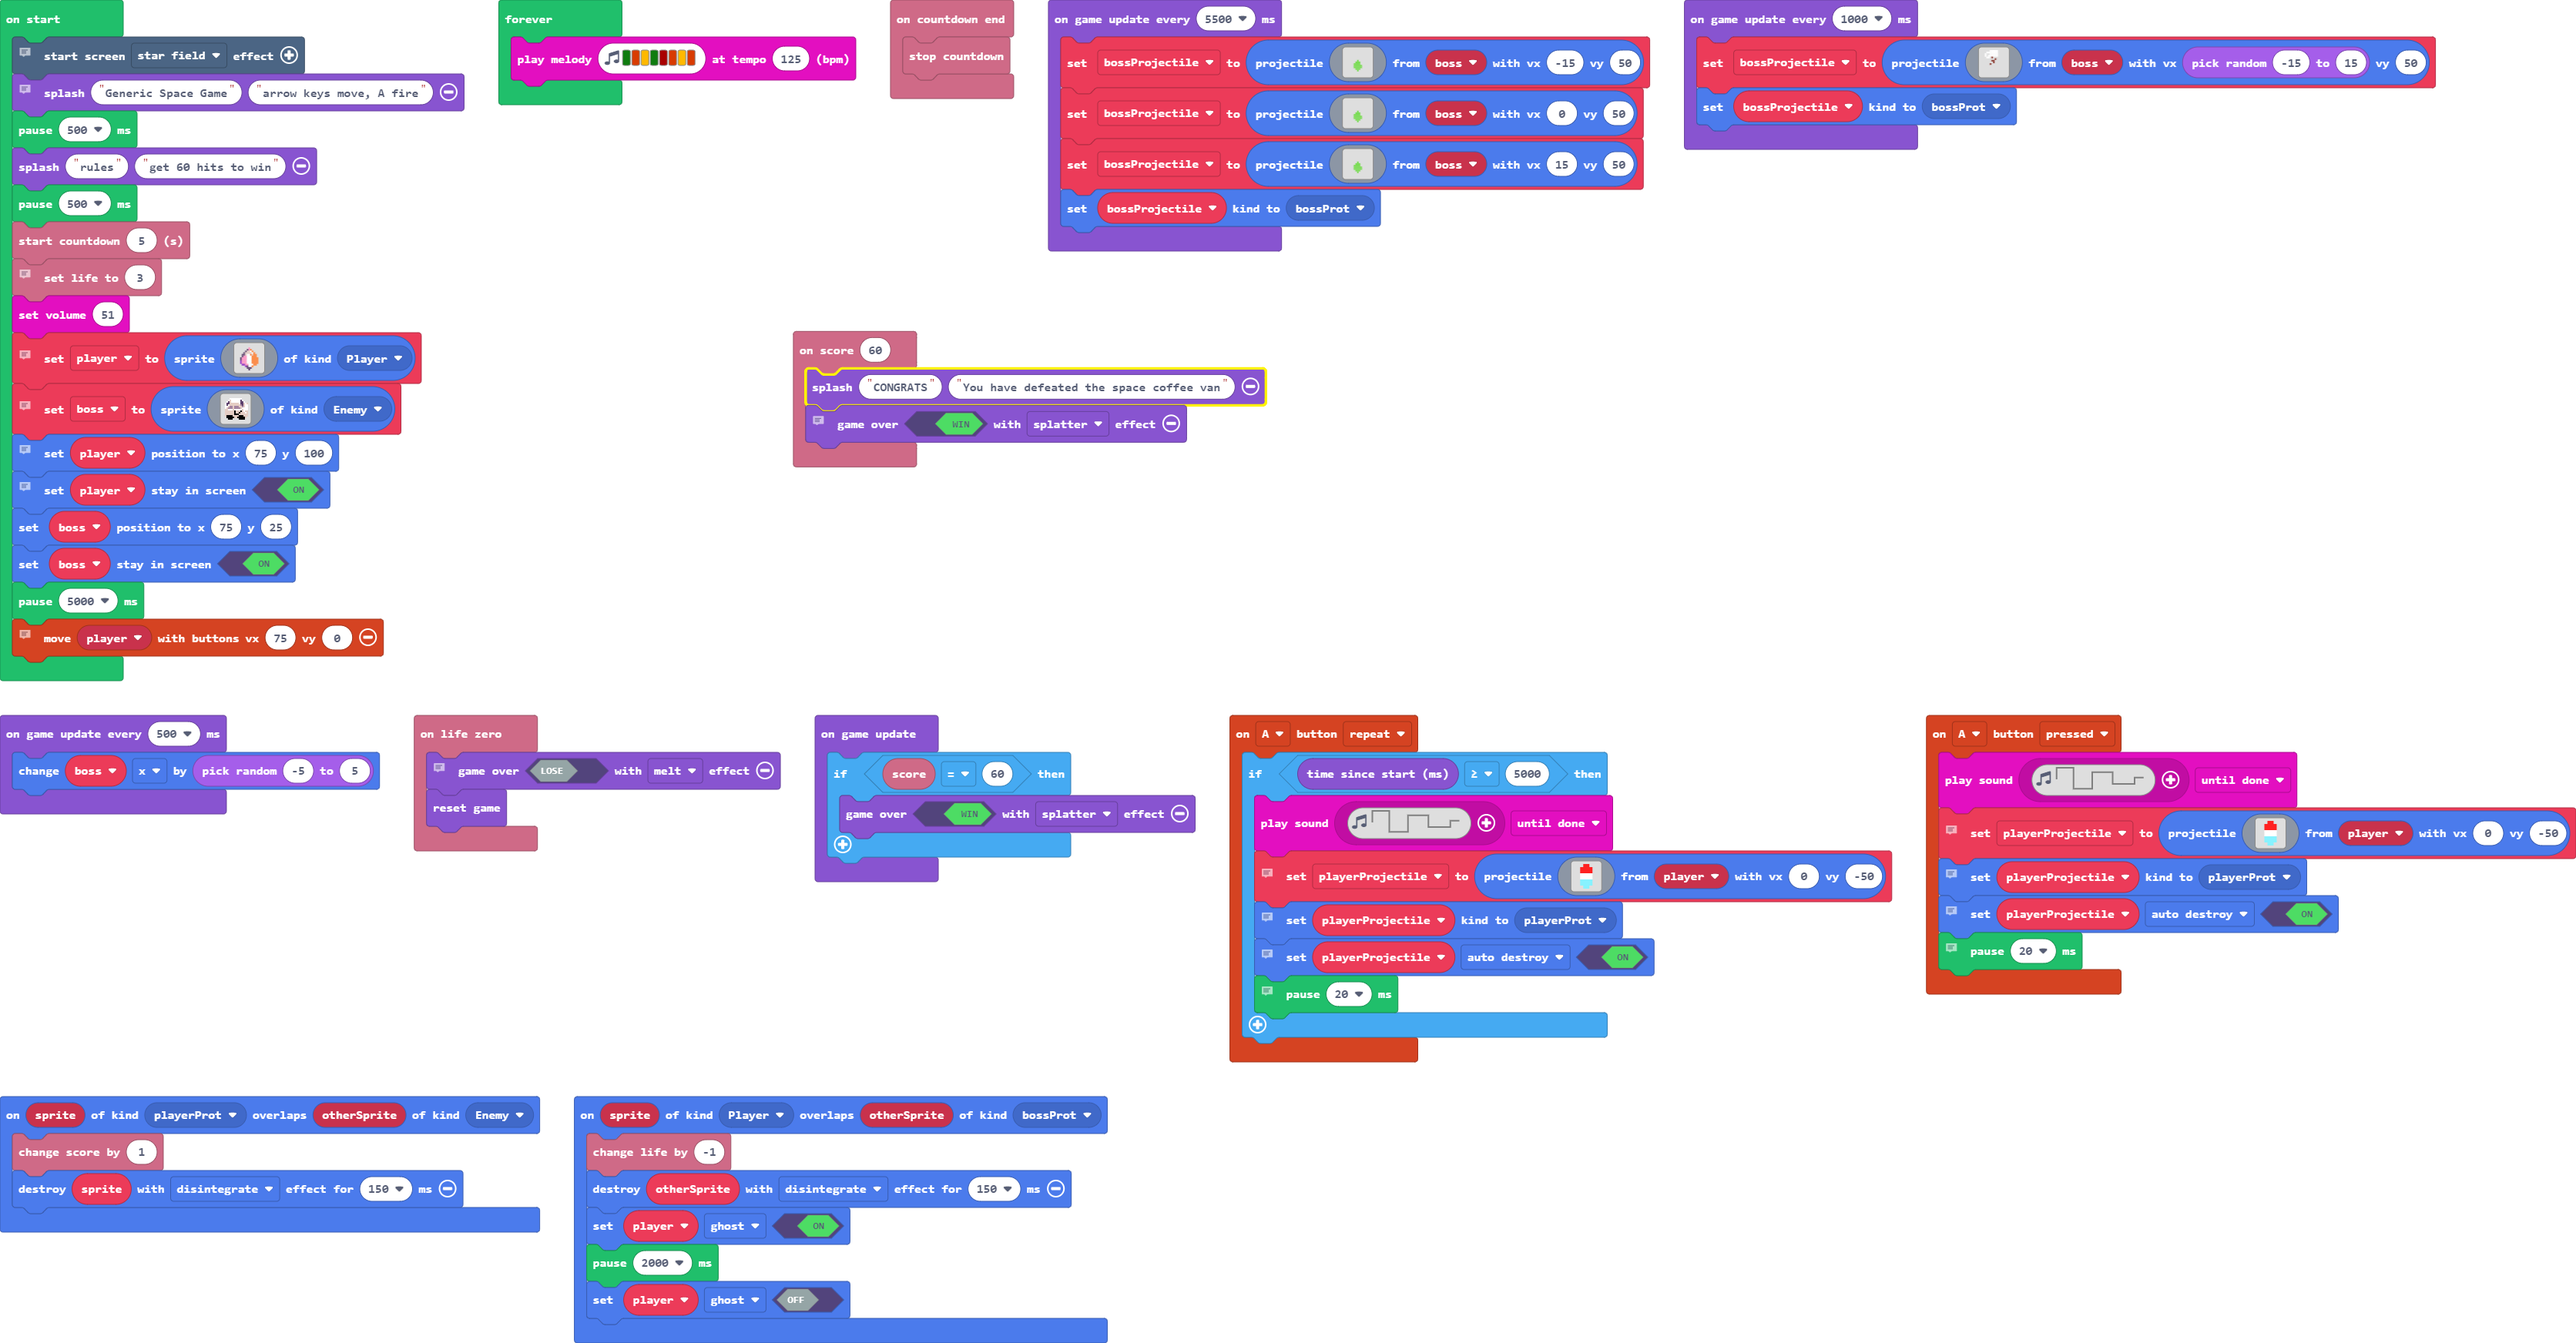
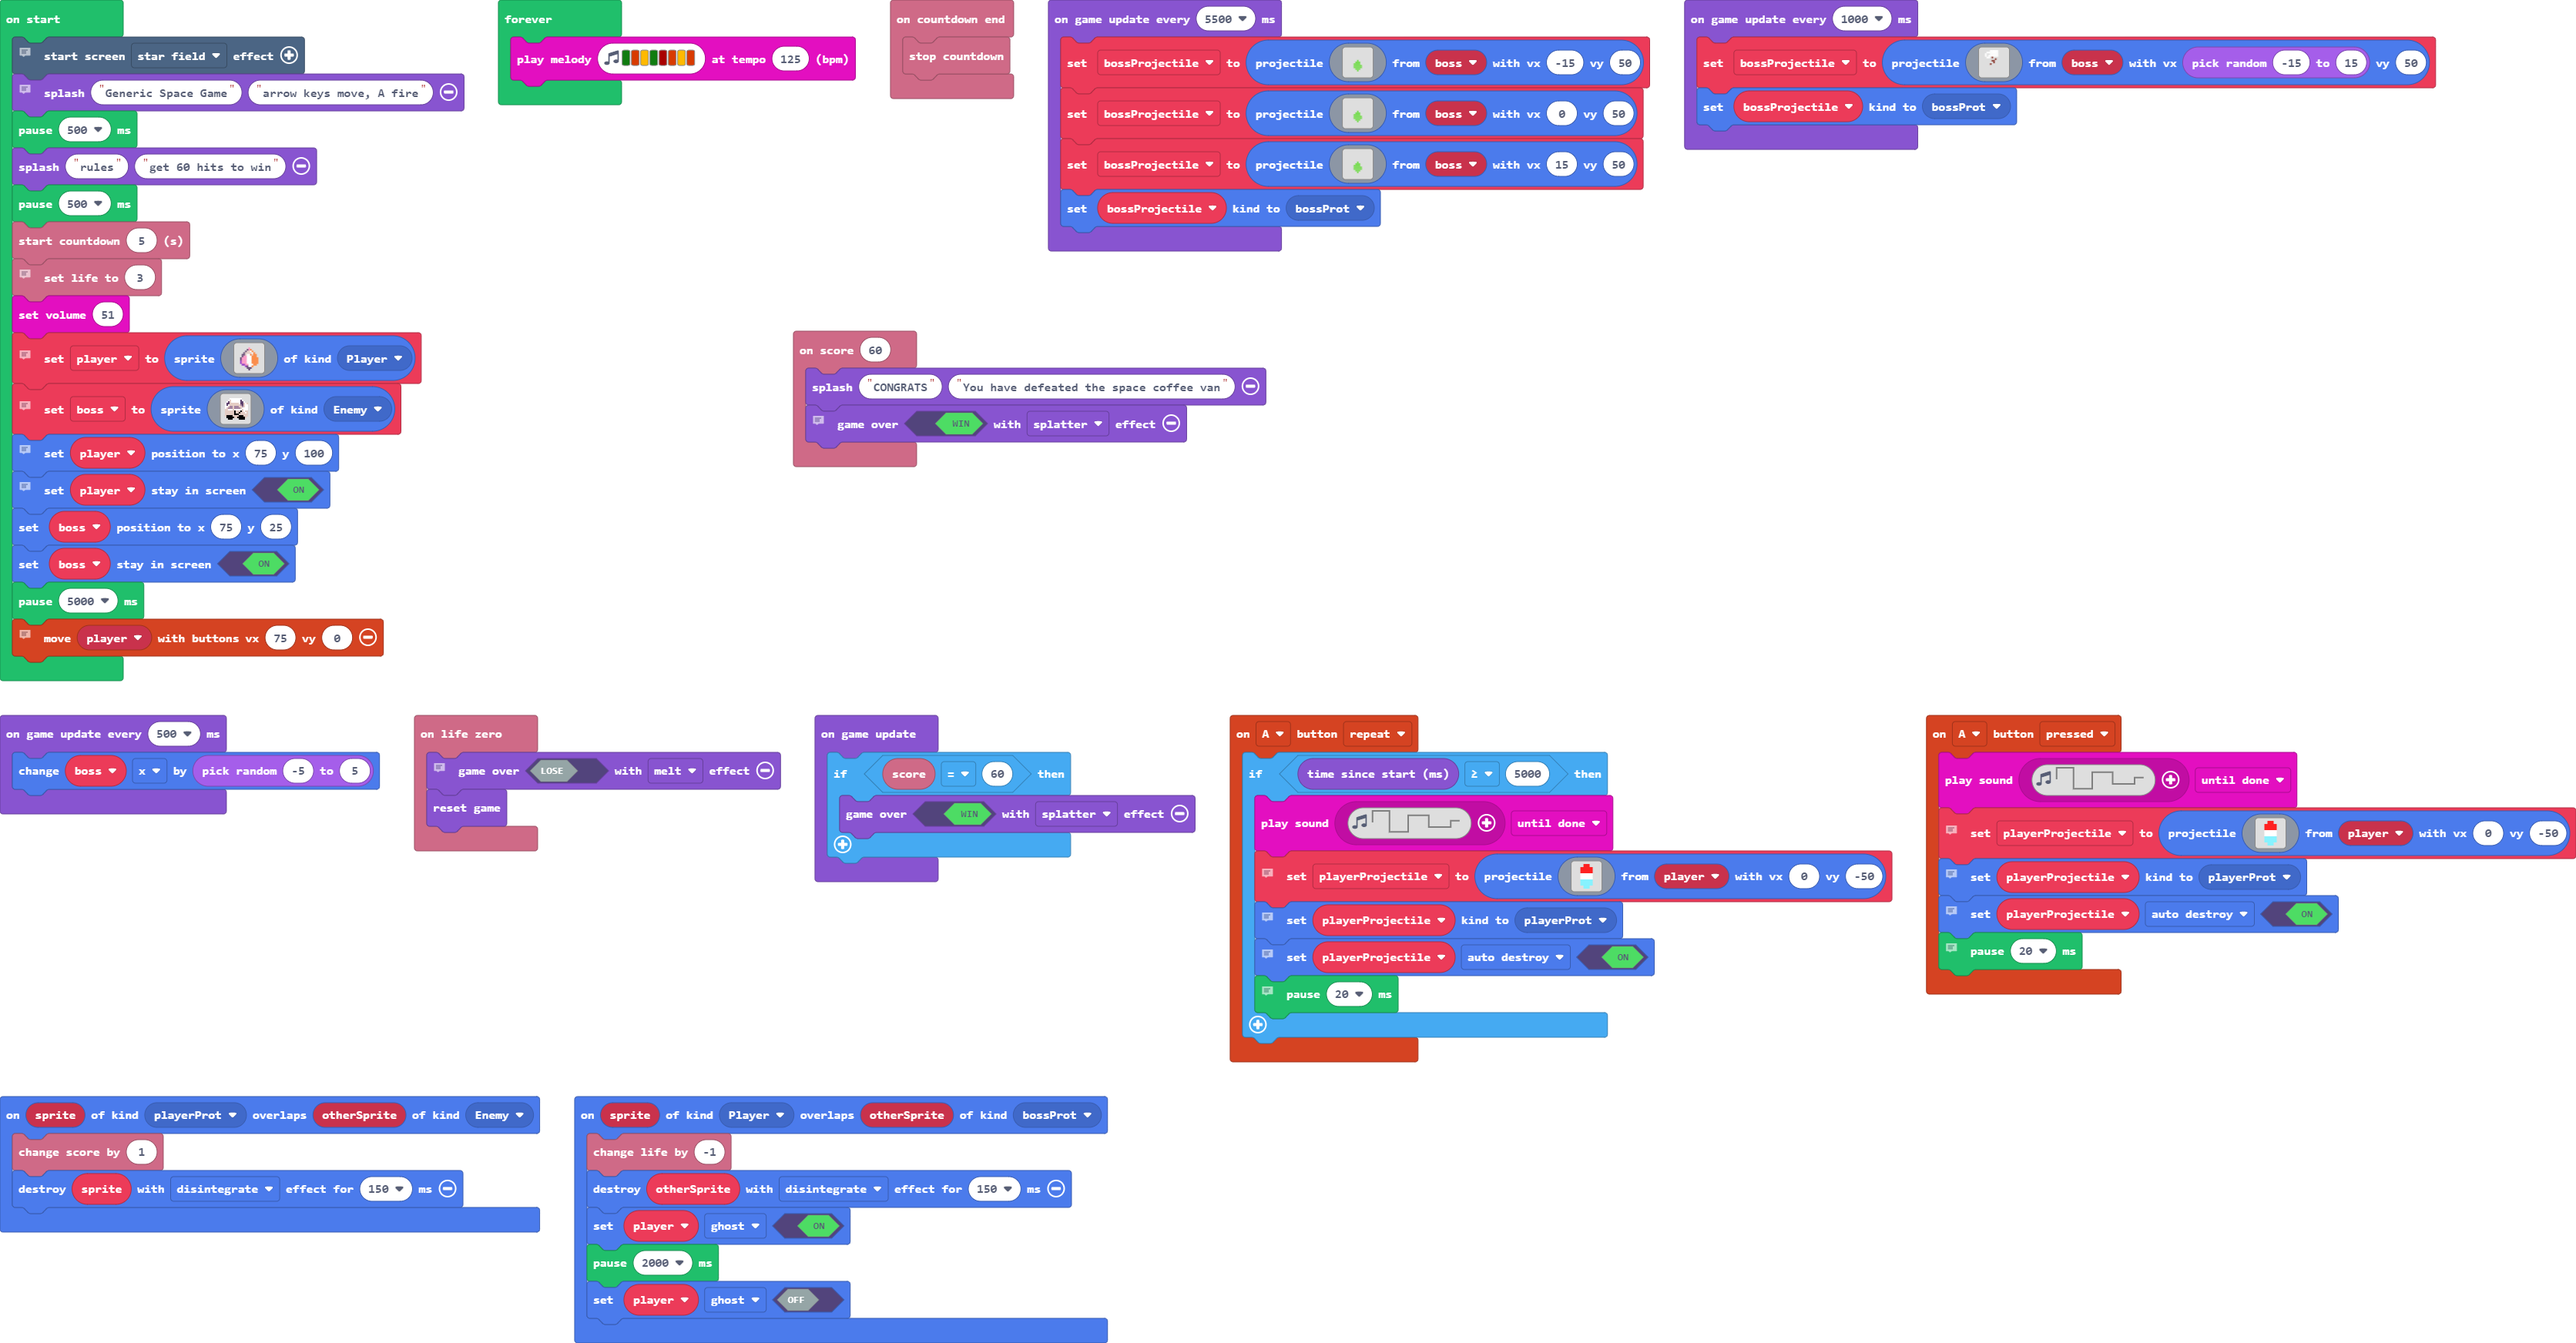
Update pxt.json, main.blocks, main.ts

Changed region(s): [[0.4354, 0.2787, 0.4976, 0.3096], [0.3421, 0.2787, 0.3732, 0.3096]]

diff --git a/main.ts b/main.ts
@@ -3,17 +3,15 @@ namespace SpriteKind {
     export const bossProt = SpriteKind.create()
 }
 controller.A.onEvent(ControllerButtonEvent.Pressed, function () {
-    if (game.runtime() >= 5000) {
-        music.playSoundEffect(music.createSoundEffect(WaveShape.Square, 1600, 1, 255, 0, 300, SoundExpressionEffect.None, InterpolationCurve.Curve), SoundExpressionPlayMode.UntilDone)
-        // player firing
-        playerProjectile = sprites.createProjectileFromSprite(assets.image`Laser`, player, 0, -50)
-        // protjectile different so you dont die when you fire
-        playerProjectile.setKind(SpriteKind.playerProt)
-        // should destroy the player protjectile after passing top
-        playerProjectile.setFlag(SpriteFlag.AutoDestroy, true)
-        // not spammy projectiles
-        pause(20)
-    }
+    music.playSoundEffect(music.createSoundEffect(WaveShape.Square, 1600, 1, 255, 0, 300, SoundExpressionEffect.None, InterpolationCurve.Curve), SoundExpressionPlayMode.UntilDone)
+    // player firing
+    playerProjectile = sprites.createProjectileFromSprite(assets.image`Laser`, player, 0, -50)
+    // protjectile different so you dont die when you fire
+    playerProjectile.setKind(SpriteKind.playerProt)
+    // should destroy the player protjectile after passing top
+    playerProjectile.setFlag(SpriteFlag.AutoDestroy, true)
+    // not spammy projectiles
+    pause(20)
 })
 info.onScore(60, function () {
     game.splash("CONGRATS", "You have defeated the space coffee van")
